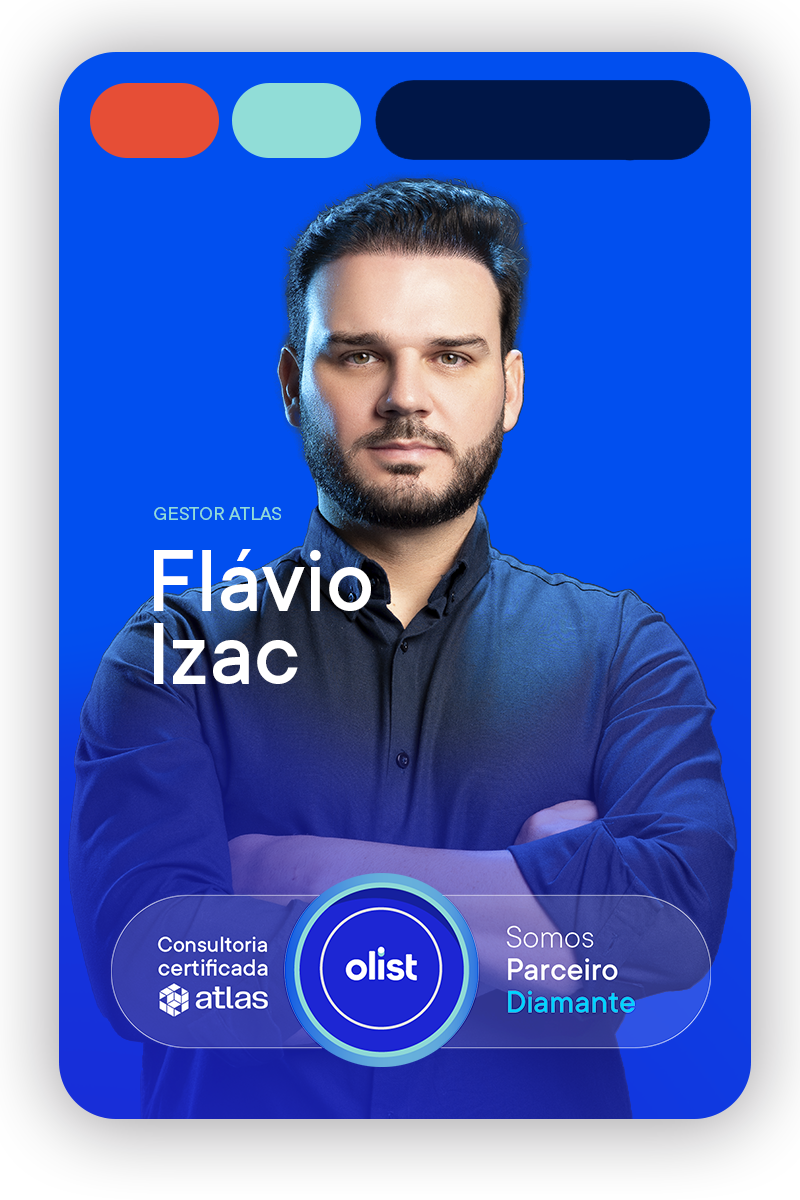
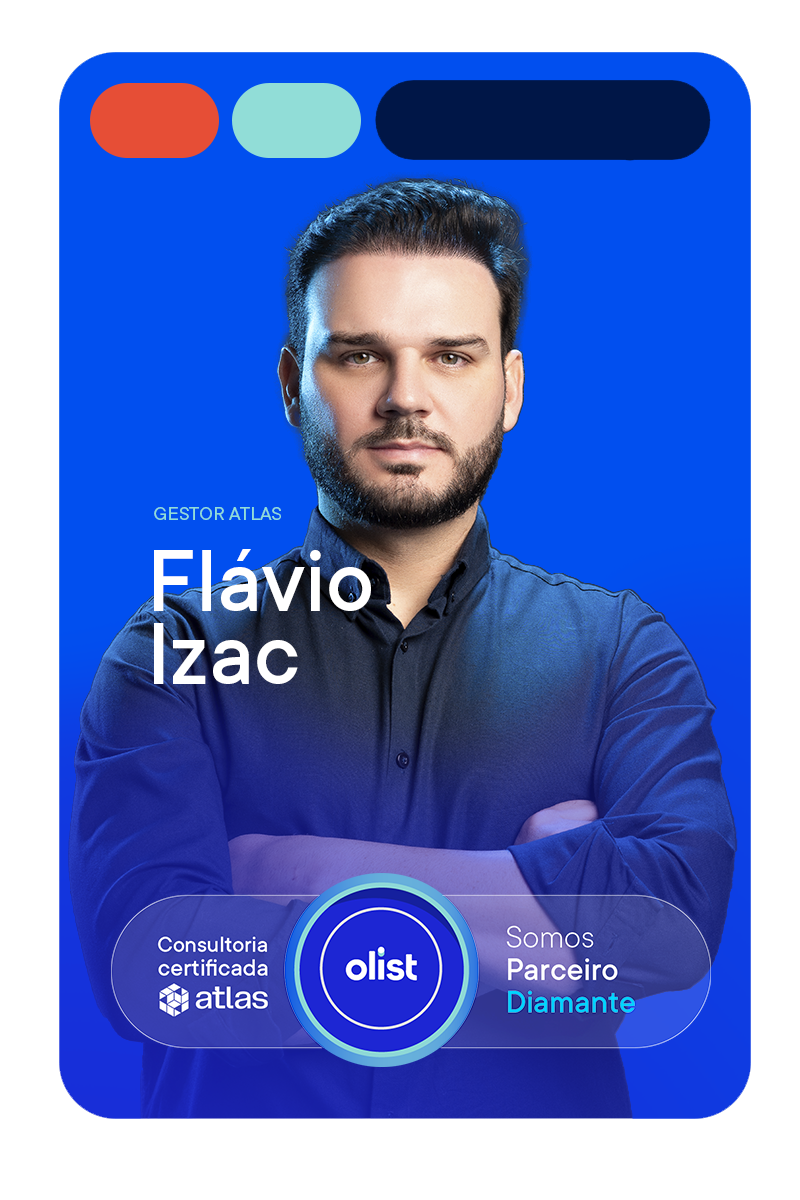
Atualiza conteúdo e visual do site Atlas

Changed region(s): [[0.0312, 0.0, 1.0, 0.9867]]

diff --git a/index.html b/index.html
@@ -81,7 +81,7 @@ button{font-family:inherit;cursor:pointer}
 
 /* ====================== Buttons ====================== */
 .btn{display:inline-flex;align-items:center;justify-content:center;gap:.6rem;
-  border-radius:9999px;padding:.935rem 1.76rem;font-size:.99rem;font-weight:500;
+  border-radius:9999px;padding:1.029rem 1.936rem;font-size:1.089rem;font-weight:500;
   border:1px solid transparent;line-height:1;transition:transform .25s var(--ease),
   background .25s var(--ease),color .25s var(--ease),border-color .25s var(--ease),box-shadow .25s var(--ease)}
 .btn:hover{transform:translateY(-2px)}
@@ -393,10 +393,12 @@ body:not(.no-webgl) .atlas-navy-wash{display:none}
 .hero-sub{margin-top:1.1rem;max-width:min(500px,100%);font-family:"Urania",Arial,sans-serif;font-weight:400;
   font-size:clamp(16px,1.35vw,19px);line-height:1.55;color:rgba(255,255,255,.86)}
 .hero-actions{margin-top:1.5rem;display:flex;align-items:center}
-.hero-actions .btn-primary{min-height:57px;padding:0 29px;font-size:17px;font-weight:500;border-radius:999px;width:auto}
+.hero-actions .btn-primary{min-height:63px;padding:0 33px;font-size:18.7px;font-weight:500;border-radius:999px;width:auto}
 @media (min-width:1024px){.hero-actions{margin-top:1.75rem}
-  .hero-actions .btn-primary{min-height:62px;padding:0 35px;font-size:18.5px}}
-.hero-cta{position:relative;isolation:isolate;overflow:visible;z-index:1}
+  .hero-actions .btn-primary{min-height:68px;padding:0 40px;font-size:20.5px}}
+.hero-cta{position:relative;isolation:isolate;overflow:visible;z-index:1;
+  border:0;background-clip:border-box;
+  box-shadow:0 12px 30px -10px rgba(8,169,230,.6)}
 .hero-cta > *{position:relative;z-index:2}
 .hero-cta::before,.hero-cta::after{
   content:"";position:absolute;inset:0;border-radius:inherit;pointer-events:none;z-index:-1;
@@ -418,7 +420,7 @@ body:not(.no-webgl) .atlas-navy-wash{display:none}
 }
 .hero-cta:hover{transform:translateY(-2px) scale(1.02);
   background:linear-gradient(135deg,#1ec8f2,#1638d0);
-  box-shadow:0 18px 44px -10px rgba(8,169,230,.75),inset 0 0 0 1px rgba(255,255,255,.22)}
+  box-shadow:0 18px 44px -10px rgba(8,169,230,.75)}
 .hero-cta:hover .arw{transform:translateX(4px)}
 .hero-cta:focus-visible{outline:3px solid var(--ring);outline-offset:4px}
 
@@ -786,8 +788,8 @@ body:not(.no-webgl) .atlas-navy-wash{display:none}
 .erp-areas{list-style:none;margin:1.35rem 0 0;padding:0;display:flex;flex-wrap:wrap;gap:.45rem}
 .erp-areas li{margin:0;padding:.42rem .8rem;border-radius:999px;font-size:13px;font-weight:500;line-height:1.2;
   color:#fff;border:1px solid rgba(72,214,208,.34);background:rgba(8,169,230,.1)}
-.erp-msg-cta{margin-top:1.5rem;max-width:100%;white-space:normal;text-align:left;line-height:1.3;
-  background:#fff;color:var(--atlas-navy);box-shadow:0 12px 30px -12px rgba(0,0,0,.45)}
+.erp-msg-cta{margin-top:1.5rem;max-width:100%;white-space:nowrap;text-align:left;line-height:1;
+  padding:.72rem 1.45rem;background:#fff;color:var(--atlas-navy);box-shadow:0 12px 30px -12px rgba(0,0,0,.45)}
 .erp-msg-cta:hover{background:#004EF4;color:#fff;box-shadow:0 12px 30px -12px rgba(0,0,0,.45)}
 .erp-sys{position:relative;display:grid;grid-template-columns:auto minmax(0,1fr);
   align-items:center;column-gap:.42rem;min-width:0;width:100%}
@@ -1286,9 +1288,9 @@ body:not(.no-webgl) .atlas-navy-wash{display:none}
 .acompanha-band-text{min-width:0}
 .acompanha-cta{
   flex:none;
-  min-height:53px;
-  padding:0 1.1rem;
-  font-size:16.5px;
+  min-height:58px;
+  padding:0 1.21rem;
+  font-size:18px;
   white-space:normal;
   text-align:center;
   line-height:1.25;
@@ -1301,7 +1303,7 @@ body:not(.no-webgl) .atlas-navy-wash{display:none}
   .acompanha-band{flex-direction:row;align-items:center;justify-content:space-between;
     gap:clamp(1.25rem,2.5vw,2.25rem);padding:.9rem .9rem .9rem clamp(1.25rem,2.2vw,1.75rem)}
   .acompanha-band-text{flex:1 1 auto}
-  .acompanha-cta{padding:0 1.76rem;white-space:nowrap}
+  .acompanha-cta{padding:0 1.936rem;white-space:nowrap}
 }
 .acompanha-band p{margin:0}
 .acompanha-band-title{
@@ -1486,7 +1488,7 @@ body:not(.no-webgl) .atlas-navy-wash{display:none}
 .atlas4p-stage.is-flv-open .atlas4p-node{filter:blur(6px) opacity(.4);transform:scale(var(--flv-ns,1))}
 @media (max-width:1279px){
   .atlas4p-banner{width:min(100%,400px)}
-  .atlas4p-core .btn{white-space:normal;height:auto;padding:.935rem 1.265rem;line-height:1.3;text-align:center}
+  .atlas4p-core .btn{white-space:normal;height:auto;padding:1.029rem 1.392rem;line-height:1.3;text-align:center}
 }
 .atlas4p-node{display:flex;flex-direction:column;padding:1.3rem 1.25rem 1.2rem;min-height:11.5rem;
   transition:border-color .42s var(--ease),box-shadow .42s var(--ease),filter .52s var(--ease)}
@@ -1627,6 +1629,10 @@ body:not(.no-webgl) .atlas-navy-wash{display:none}
 .field textarea{min-height:8rem;resize:vertical}
 .field input:focus,.field select:focus,.field textarea:focus{border-color:var(--atlas-blue)}
 .form-submit{display:flex;flex-direction:column;align-items:center;gap:1rem;margin-top:.5rem}
+.form-submit .btn{border:0;background-clip:border-box;
+  padding:calc(1.029rem + 1px) calc(1.936rem + 1px);
+  box-shadow:0 12px 30px -10px rgba(8,169,230,.6)}
+.form-submit .btn:hover{box-shadow:0 18px 44px -10px rgba(8,169,230,.75)}
 .status{min-height:1.25rem;font-size:.9rem;color:var(--atlas-blue);font-weight:500}
 
 /* ====================== Footer: navy CTA + white panel ====================== */
@@ -1971,7 +1977,7 @@ body.pre-active{overflow:hidden}
             <li>Rotinas operacionais</li>
             <li>Migração de sistema</li>
           </ul>
-          <a class="btn btn-primary erp-msg-cta" href="#contato" data-service="Implementação Olist ERP">Quero estruturar minha operação no Olist ERP <span class="arw">→</span></a>
+          <a class="btn btn-primary erp-msg-cta" href="#contato" data-service="Implementação Olist ERP">Quero estruturar minha operação no Olist <span class="arw">→</span></a>
         </div>
         <div class="erp-sys" id="erpSys">
           <svg class="erp-sys-svg" id="erpSysSvg" aria-hidden="true">
@@ -2072,7 +2078,7 @@ body.pre-active{overflow:hidden}
             <figure class="atlas4p-banner" id="flavioTrigger" tabindex="0" role="button" aria-expanded="false" aria-controls="flavioExpand" aria-label="Ampliar cartão: Flávio Izac, gestor Atlas. Consultoria certificada Atlas, parceira Diamante Olist.">
               <img class="flv-portrait" src="brand/cardflavio.png?v=20260928-1937" alt="" width="800" height="1200" decoding="async">
             </figure>
-            <img class="flv-expand" id="flavioExpand" src="brand/cardflavioexpandido.png?v=20260928-1939" alt="Flávio Izac. Sua implementação com uma consultoria certificada pela Olist. A Atlas é Parceiro Diamante Olist. Unimos conhecimento do sistema à experiência de quem entende a rotina do varejo digital para configurar o ERP, preparar sua equipe e apoiar a implementação." width="1920" height="1080" decoding="async">
+            <img class="flv-expand" id="flavioExpand" src="brand/cardflavioexpandido.png?v=20261005-1211" alt="Flávio Izac. Sua implementação com uma consultoria certificada pela Olist. A Atlas é Parceiro Diamante Olist. Unimos conhecimento do sistema à experiência de quem entende a rotina do varejo digital para configurar o ERP, preparar sua equipe e apoiar a implementação." width="1920" height="1080" decoding="async">
           </div>
           <a class="btn btn-dark" href="#contato" data-service="Implementação Olist ERP">Quero conhecer a implementação Atlas</a>
         </article>
